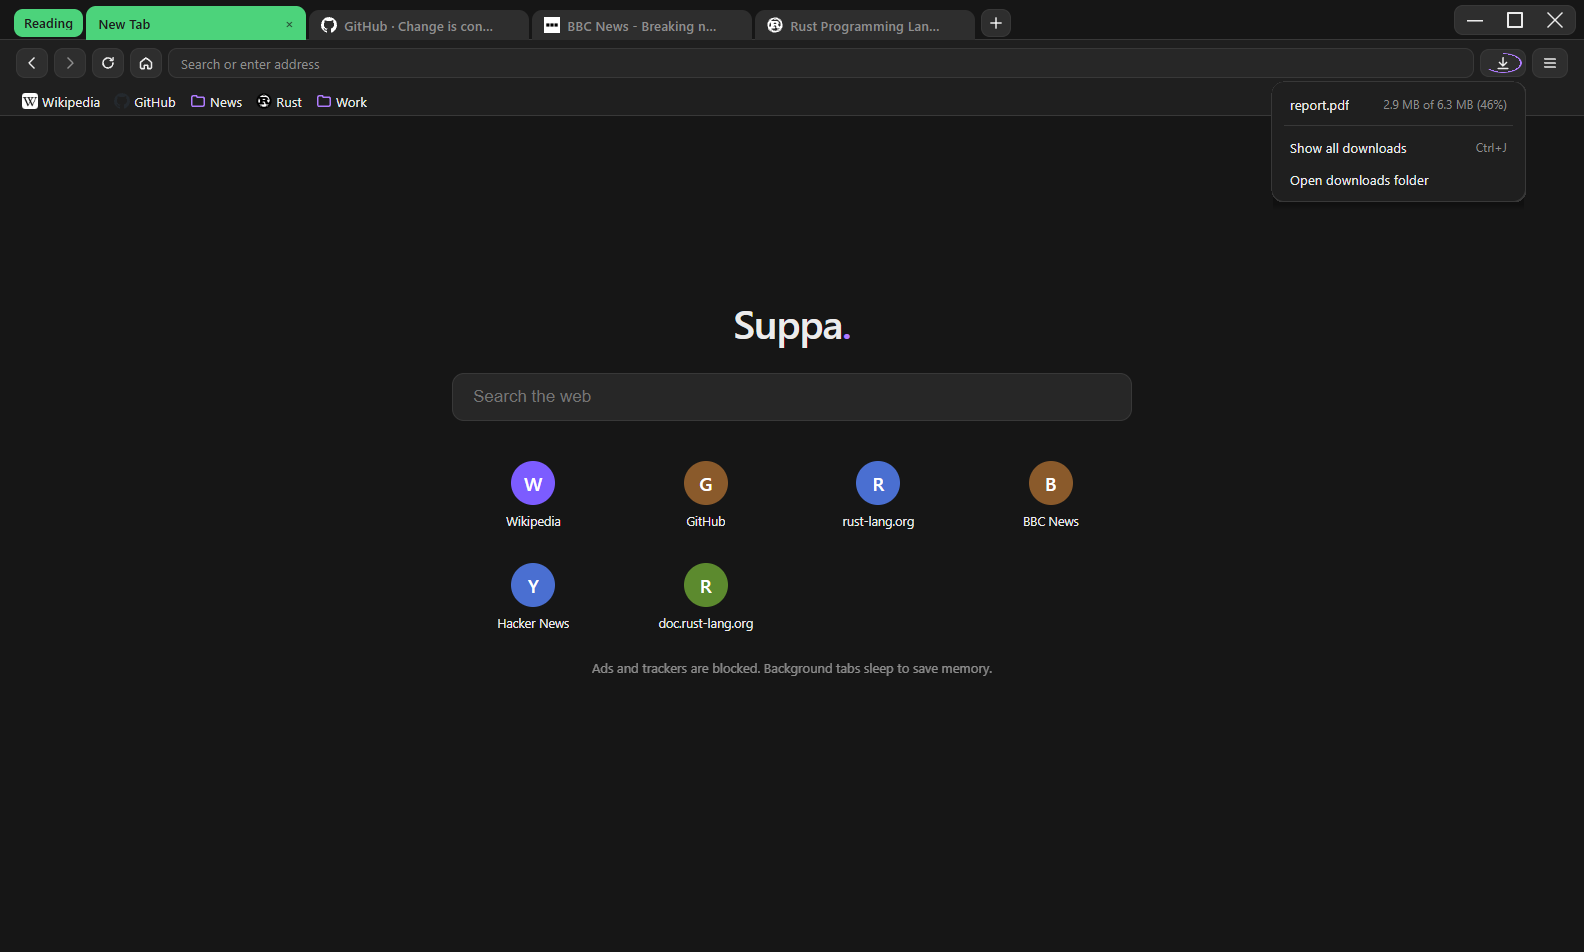
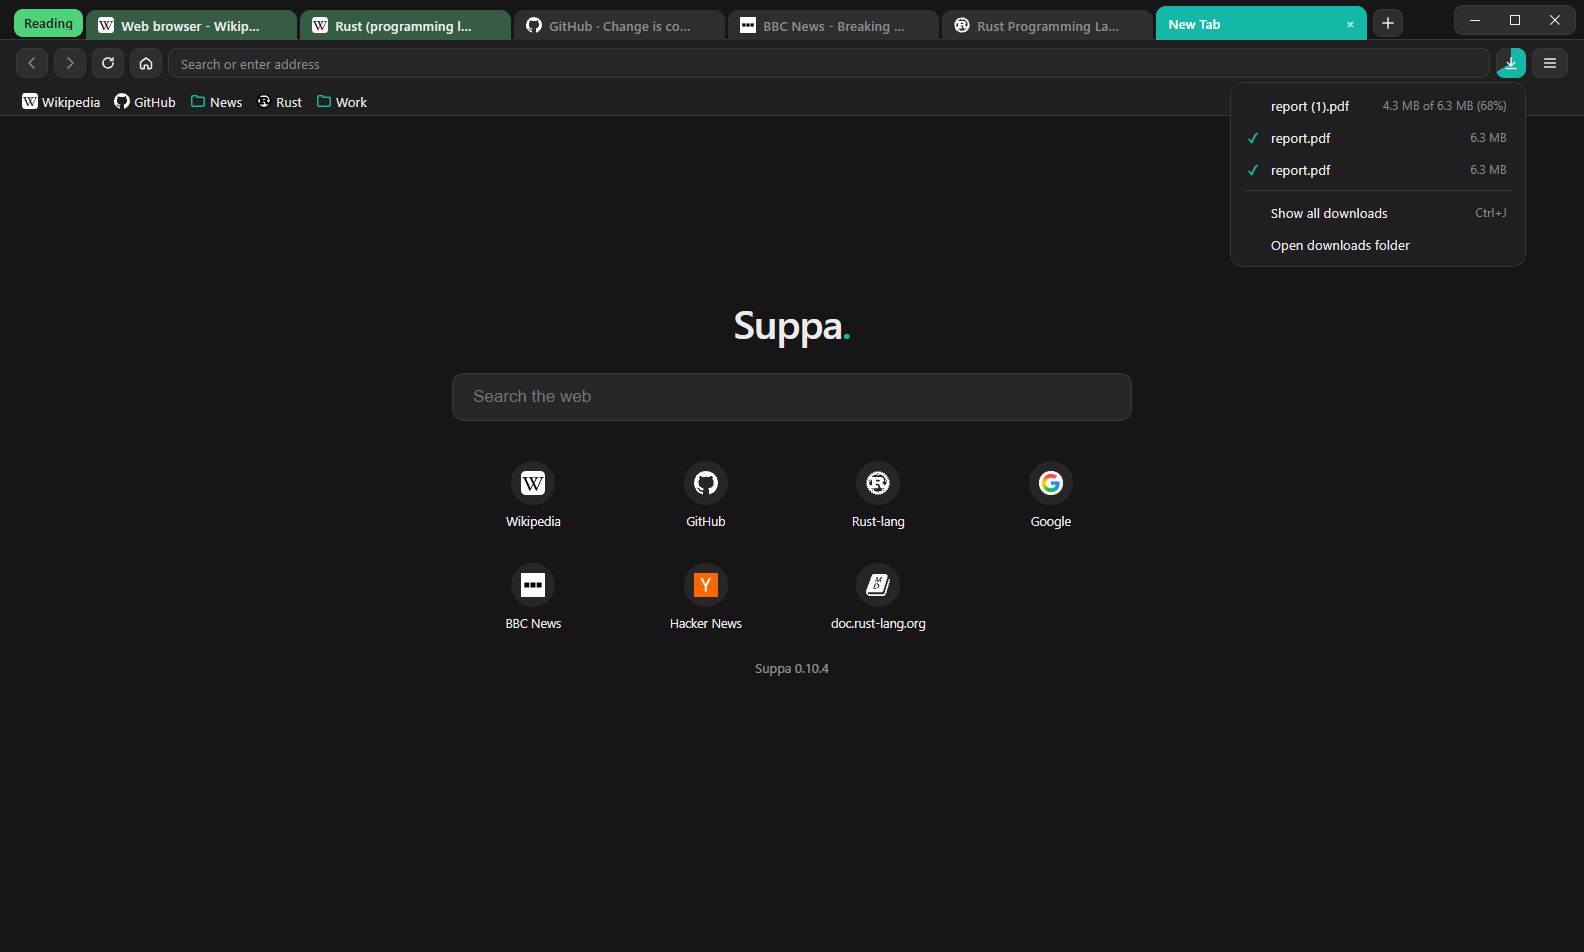
README: new screenshots (a different accent in each), 0.10.4 fixes
- All 11 screenshots retaken with the current interface: small window
  buttons, download button by the address bar, site icons, start page in
  the theme, History with icons; each in another accent colour.
- Start page names: a front page's own title is used ("Hacker News");
  subdomains show their address ("doc.rust-lang.org").
- Switching tabs while the address field has focus shows the new tab's
  address (it stayed empty).

diff --git a/scripts/ui.js b/scripts/ui.js
@@ -512,9 +512,12 @@ function onTabDragEnd(e) {
   setTimeout(() => d.el.classList.remove('dragging'), ANIM_MS);
 }
 
+let addrTab = -1;   // the tab whose address the field shows
 function renderState() {
   const addr = $('addr');
-  if (document.activeElement !== addr) addr.value = state.url;
+  // While typing, the field is left alone; another tab always shows its own address.
+  if (document.activeElement !== addr || addrTab !== state.active) addr.value = state.url;
+  addrTab = state.active;
   const star = $('star');
   star.classList.toggle('on', !!state.star);
   star.disabled = !state.url || !!state.inc;

diff --git a/src/history.rs b/src/history.rs
@@ -336,7 +336,7 @@ pub fn most_used(n: usize) -> serde_json::Value {
             .into_iter()
             .take(n)
             .map(|(site, (_, url, front, any, _))| {
-                let title = short_title(if front.is_empty() { &any } else { &front }, &site);
+                let title = short_title(if front.is_empty() { &any } else { &front }, &site, !front.is_empty());
                 let icon = with_icons(|m| m.get(&site).cloned()).unwrap_or_default();
                 serde_json::json!({ "url": url, "title": title, "host": site, "name": main_label(&site), "icon": icon })
             })
@@ -355,8 +355,9 @@ fn main_label(site: &str) -> String {
 
 /// A short name for a site from a page title: the part naming the site
 /// ("Rust (programming language) - Wikipedia" -> "Wikipedia",
-/// "GitHub · Change is constant" -> "GitHub"), else the site's address.
-fn short_title(title: &str, site: &str) -> String {
+/// "GitHub · Change is constant" -> "GitHub"); else the front page's own title
+/// ("Hacker News"); else the site's name ("Odoo") or address.
+fn short_title(title: &str, site: &str, front_page: bool) -> String {
     let label = main_label(site).replace('-', "");
     let mut t = title.to_string();
     for sep in [" - ", " | ", " · ", " \u{2014} ", " \u{2013} "] {
@@ -367,10 +368,20 @@ fn short_title(title: &str, site: &str) -> String {
     if !named.is_empty() && named.chars().count() <= 24 {
         return named.to_string();
     }
-    // No part names the site ("WH/MO/00189", "Before you continue"): the site's
-    // own name ("Odoo", "Google"), or its address for localhost / IP addresses.
+    // The front page's title names the site even without its address in it
+    // ("Hacker News" on news.ycombinator.com, "Rust Documentation").
+    if front_page {
+        if let Some(first) = parts.first().filter(|p| p.chars().count() <= 24) {
+            return first.to_string();
+        }
+    }
+    // Only a deeper page's title ("WH/MO/00189", "Before you continue"): the
+    // site's name ("Odoo", "Google"); for a subdomain ("doc.rust-lang.org"),
+    // localhost or an IP address, its address.
     let word = main_label(site);
-    if word.len() > 1 && word.chars().all(|c| c.is_ascii_alphabetic() || c == '-') && word.starts_with(|c: char| c.is_ascii_alphabetic()) && word != "localhost" {
+    let host = site.split(':').next().unwrap_or(site);
+    let sub = host.split('.').count() > 2;
+    if !sub && word.len() > 1 && word.chars().all(|c| c.is_ascii_alphabetic() || c == '-') && word.starts_with(|c: char| c.is_ascii_alphabetic()) && word != "localhost" {
         let mut c = word.chars();
         c.next().map(|f| f.to_ascii_uppercase().to_string() + c.as_str()).unwrap_or_default()
     } else {

diff --git a/README.md b/README.md
@@ -23,7 +23,8 @@ Written in Rust on top of Microsoft **WebView2**, the Chromium engine that is al
 - **Your look** - darker / dark / light / lighter theme, a tint over the whole interface, any accent colour (or the Windows accent), every interface colour, round or squircle corners, which tab corners are rounded, five icon styles, interface scale.
 - **Incognito tabs**, tab sorting, drag a tab out into a new window, crash recovery, backup & restore, bookmark import.
 - **Password manager** - see, search, copy and delete saved passwords (Windows Hello or your Windows password is asked first); import them from Firefox, Chrome, Edge or Brave and export them to a `.csv` file.
-- **History, downloads and shortcuts** - a searchable History page, a download button next to the address bar with progress, and your most-used sites with their icons on the start page.
+- **History, downloads and shortcuts** - a searchable History page, a download button next to the address bar that fills with your accent colour as files download, and your most-used sites with their icons on a start page in your theme.
+- **Site icons that fit your theme** - in tabs, saved tabs, History and on the start page; white icons turn dark in the light theme and black ones light in the dark theme.
 - **Updates itself** - checks GitHub once a day; installed with the setup, it updates with one click and shows what is new.
 - **Hackable** - the whole interface is plain HTML/CSS/JS in a folder next to the exe; edit it and press **Update**.
 
@@ -34,18 +35,18 @@ Written in Rust on top of Microsoft **WebView2**, the Chromium engine that is al
 | | |
 |---|---|
 | ![Dark theme](docs/screenshots/main-dark.png) | ![Light theme](docs/screenshots/main-light.png) |
-| **Dark theme** - tab group "Reading", saved tabs bar, extension-ready toolbar | **Light theme** |
+| **Dark theme** (blue accent) - tab group "Reading", saved tabs bar, download button next to the address bar | **Light theme** (indigo accent) - site icons adapt to the theme |
 | ![Menu](docs/screenshots/menu.png) | ![Side bar](docs/screenshots/side-tabs.png) |
-| **The ≡ menu** - every menu follows the browser's theme | **Bar on the left** - vertical tabs, address and saved tabs in one column |
+| **The ≡ menu** (orange accent) - every menu follows the browser's theme | **Bar on the left** (lime accent) - vertical tabs, address and saved tabs in one column |
 | ![Saved tabs folder](docs/screenshots/saved-folder.png) | ![Settings](docs/screenshots/settings.png) |
-| **Saved tabs** - folders open as menus; drag to sort | **Settings** - grouped in tabs on the left: look, corners, layout, privacy, passwords, backup, update |
+| **Saved tabs** (pink accent) - folders open as menus; drag to sort | **Settings** (yellow accent) - grouped in tabs on the left: look, corners, layout, privacy, passwords, backup, update |
 | ![Password manager](docs/screenshots/passwords.png) | ![Tabs on the left, red tint](docs/screenshots/layout-tint.png) |
-| **Password manager** - search, show, copy, delete; import from Firefox, Chrome, Edge or Brave and export to `.csv` | **Your layout and look** - tabs on the left, address bar on top, dark theme with a 20% red tint and squircle corners |
+| **Password manager** (red accent, demo entries) - search, show, copy, delete; import from Firefox, Chrome, Edge or Brave and export to `.csv` | **Your layout and look** (rose accent) - tabs on the left, address bar on top, dark theme with a 20% red tint |
 | ![History](docs/screenshots/history.png) | ![Start page and downloads](docs/screenshots/downloads-start.png) |
-| **History** (`Ctrl+H`) - grouped by day, with search | **Start page shortcuts** (your most-used sites) and the **downloads popup** |
+| **History** (`Ctrl+H`, purple accent) - grouped by day, with site icons and search | **Start page** (teal accent) - your most-used sites with their icons, and a download filling the download button |
 
 ![Custom colours](docs/screenshots/settings-colors.png)
-*Settings → Custom colours: change every colour of the interface (separately for the light and dark theme).*
+*Settings → Custom colours (cyan accent): change every colour of the interface (separately for the light and dark theme).*
 
 ---
 
